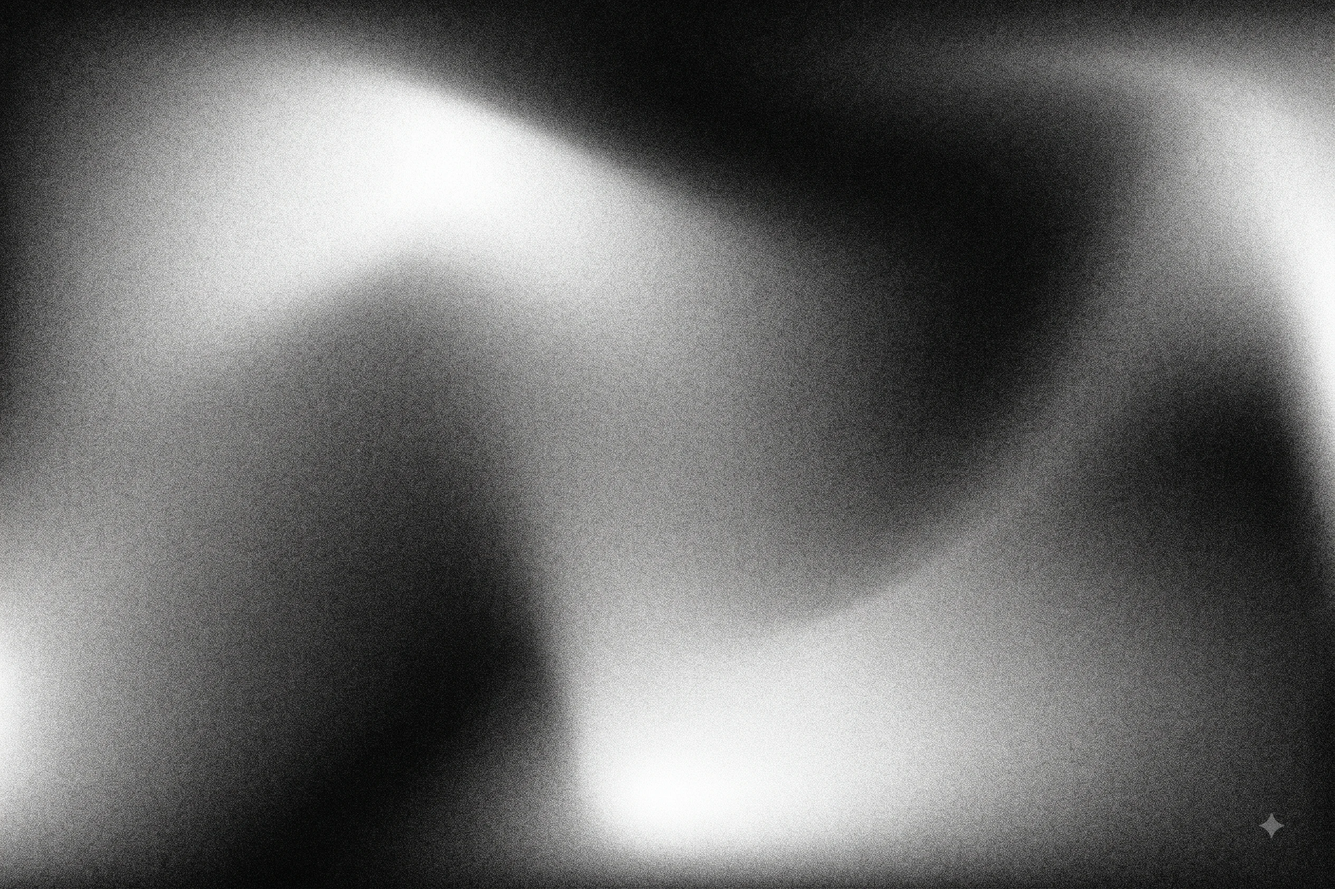
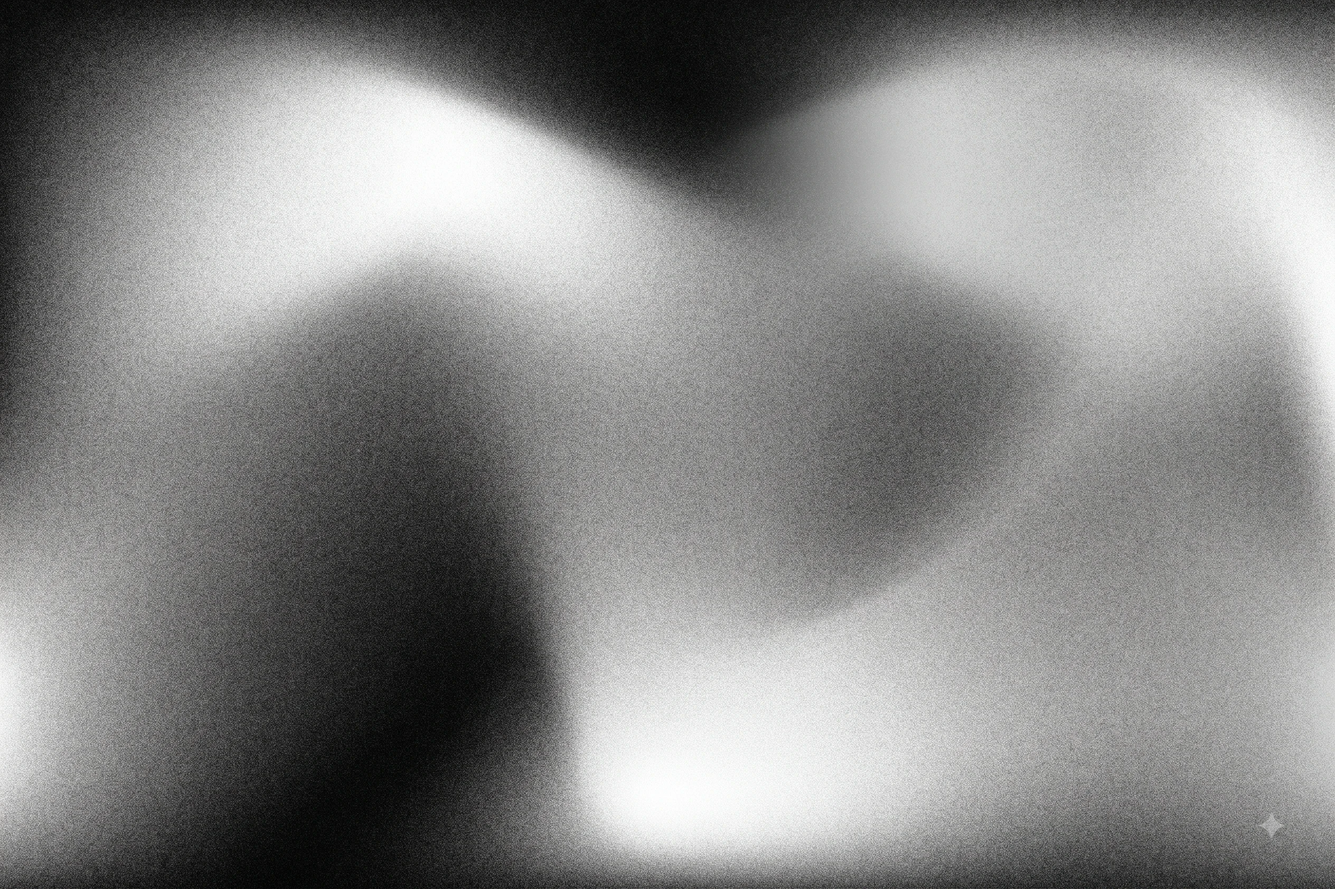
feat(portfolio): extend white spray background across full width to right border

Changed region(s): [[0.5312, 0.0, 1.0, 1.0]]

diff --git a/css/global.css b/css/global.css
@@ -549,13 +549,16 @@
 
         .brand-spray-bg-img {
             position: absolute;
-            inset: -4%;
-            width: 108%;
-            height: 108%;
+            top: -4%;
+            left: -4%;
+            width: 108% !important;
+            height: 108% !important;
+            max-width: none !important;
+            min-width: 108% !important;
             object-fit: cover;
-            object-position: center 38%;
-            opacity: 0.65;
-            filter: contrast(1.18) brightness(0.96);
+            object-position: center center;
+            opacity: 0.75;
+            filter: contrast(1.15) brightness(1.02);
             pointer-events: none;
             user-select: none;
             will-change: transform;
@@ -566,8 +569,7 @@
             position: absolute;
             inset: 0;
             background: 
-                radial-gradient(ellipse at 50% 50%, transparent 30%, rgba(0, 0, 0, 0.45) 75%, rgba(0, 0, 0, 0.85) 100%),
-                linear-gradient(to bottom, #000000 0%, rgba(0, 0, 0, 0.3) 10%, transparent 20%, transparent 80%, rgba(0, 0, 0, 0.4) 90%, #000000 100%);
+                linear-gradient(to bottom, #000000 0%, rgba(0, 0, 0, 0.25) 8%, transparent 18%, transparent 82%, rgba(0, 0, 0, 0.35) 92%, #000000 100%);
             pointer-events: none;
         }
 

diff --git a/index.html b/index.html
@@ -24,7 +24,7 @@
 <link rel="preconnect" href="https://fonts.googleapis.com">
     <link rel="preconnect" href="https://fonts.gstatic.com" crossorigin>
     <link href="https://fonts.googleapis.com/css2?family=Instrument+Serif:ital,wght@0,400;1,400&family=Inter+Tight:ital,wght@0,100..900;1,100..900&family=Space+Mono:wght@700&display=swap" rel="stylesheet">
-    <link rel="stylesheet" href="/css/tokens.css?v=20261105g">
+    <link rel="stylesheet" href="/css/tokens.css?v=20261105h">
     <link rel="stylesheet" href="css/navigation.css">
     <!-- Preload Hero 3D Gallery Textures for Instant Smooth Blur-In -->
     <link rel="preload" as="image" href="hero-images/1.png" crossorigin="anonymous">
@@ -405,7 +405,7 @@
     <section id="portfolio">
         <!-- White Spray / Brushed Mist Background strictly bounded to Brand Collaborations box -->
         <div class="brand-spray-bg-box" aria-hidden="true">
-            <img src="images/brand-spray-bg.webp" alt="" class="brand-spray-bg-img" />
+            <img src="images/brand-spray-bg.webp?v=20261105h" alt="" class="brand-spray-bg-img" />
             <div class="brand-spray-vignette"></div>
         </div>
 
